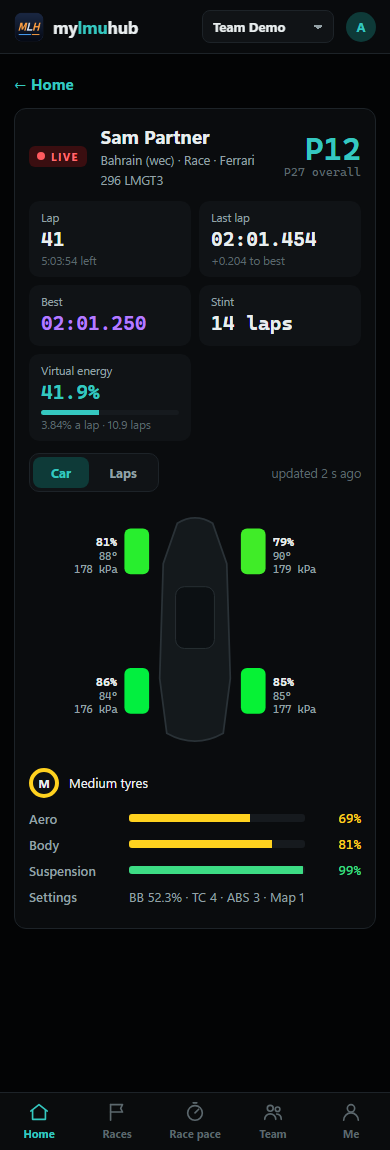
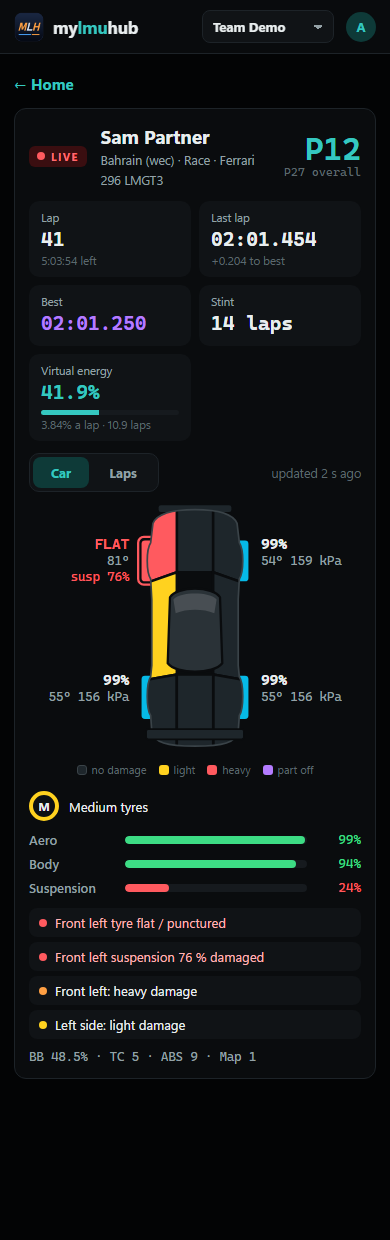
Live car damage in detail, guests can drive again, a full screen hotkey
- live-car.js (desktop Team tab + the website, one drawing): the GT car with every body part coloured by its damage,
  flat / missing tyres, suspension damage per wheel, and a list of what is wrong, worst first
- Guest mode: earlier guests have "Drive again" (their profile carries on); a typed name continues the same guest in any case
- Race Control hotkey: full screen on / off (key or wheel button, works while the game has focus)

diff --git a/server/MyLMUHub.Server/wwwroot/js/shared/live-car.js b/server/MyLMUHub.Server/wwwroot/js/shared/live-car.js
@@ -1,0 +1,91 @@
+// A team-mate's car, live (2026-11-16): the Team tab's live view (desktop) and the website's live page draw it with this one file (the server keeps a copy in
+// wwwroot/js/shared). Data = their app's CarView: wheels (wear, temperature, pressure, flat, detached), the 8 body dent zones, a detached part, aero / body /
+// suspension condition and the suspension damage per wheel (the game's repair screen), the engine state, the compound and the car's settings.
+// The car is the dashboard damage widget's GT car from above: every body part in the colour of its damage, the tyres coloured by temperature unless something
+// is wrong with that wheel (flat = red, missing = dashed outline, suspension damage = a ring); beside it the condition bars and a plain list of what is wrong.
+// No style="" anywhere (the website's Content-Security-Policy blocks them): colours are SVG attributes; widths and colours of bars are data-w / data-bg / data-col,
+// set by paint(root) through the DOM. Pure string building (tests/js/live-car.test.js).
+(function (root) {
+  'use strict';
+  var P = root.MyLMUHub = root.MyLMUHub || {}, F = P.format;
+  var C = { ok: '#1E262B', light: '#FFD21F', heavy: '#FF5A5F', off: '#B47CFF', edge: '#0A0C0E', line: '#3A4348', cabin: '#2A3237', green: '#3DDC84', none: '#5C686D', text: '#E9EEEF', dim: '#94A1A6' };
+  var WHEEL = ['Front left', 'Front right', 'Rear left', 'Rear right'];
+  // the game's 8 dent zones: 0 front, 1 front-left, 2 left, 3 rear-left, 4 rear, 5 rear-right, 6 right, 7 front-right
+  var ZONE = ['Front', 'Front left', 'Left side', 'Rear left', 'Rear', 'Rear right', 'Right side', 'Front right'];
+  var BODY = 'M50 5C70 5 83 8 87 17L89 34C93 40 93 60 89 66L88 84L88 142L89 152C93 158 93 180 89 186L88 200C86 210 75 213 50 213C25 213 14 210 12 200L11 186' +
+             'C7 180 7 158 11 152L12 142L12 84L11 66C7 60 7 40 11 34L13 17C17 8 30 5 50 5Z';
+  var PARTS = [[0, '34,0 66,0 66,60 34,60'], [1, '0,0 34,0 34,60 0,72'], [7, '66,0 100,0 100,72 66,60'], [2, '0,72 34,60 34,150 0,156'], [6, '66,60 100,72 100,156 66,150'],
+               [3, '0,156 34,150 34,220 0,220'], [5, '66,150 100,156 100,220 66,220'], [4, '34,150 66,150 66,220 34,220']];
+  var TYRES = [[3, 32, 13, 36], [84, 32, 13, 36], [3, 151, 13, 38], [84, 151, 13, 38]], uid = 0;
+
+  function esc(s) { return String(s === null || s === undefined ? '' : s).replace(/[&<>"']/g, function (c) { return { '&': '&amp;', '<': '&lt;', '>': '&gt;', '"': '&quot;', "'": '&#39;' }[c]; }); }
+  function dent(c, i) { var d = (c.dents || [])[i]; return i === 4 && c.detached && !(d >= 3) ? 3 : d > 0 ? d : 0; }
+  function dentColor(d) { return d >= 3 ? C.off : d >= 2 ? C.heavy : d >= 1 ? C.light : C.ok; }
+  function flat(w) { return !!(w && !w.detached && (w.flat || (w.pressure >= 0 && w.pressure <= 1))); }
+  function susp(c, i) { var s = (c.suspWheels || [])[i]; return s >= 0 ? s : 0; }
+
+  // what is wrong, worst first: [level 3 = bad / 2 = damaged / 1 = light, text]
+  function problems(c) {
+    var out = [], ws = c.wheels || [];
+    if (c.engine === 'off') out.push([3, 'Engine off']); else if (c.engine === 'overheat') out.push([3, 'Engine overheating']);
+    ws.forEach(function (w, i) {
+      if (w && w.detached) out.push([3, WHEEL[i] + ' wheel missing']);
+      else if (flat(w)) out.push([3, WHEEL[i] + ' tyre flat / punctured']);
+      var s = susp(c, i); if (s >= 0.02) out.push([s >= 0.25 ? 3 : 2, WHEEL[i] + ' suspension ' + Math.round(s * 100) + ' % damaged']);
+    });
+    for (var i = 0; i < 8; i++) { var d = dent(c, i); if (d >= 3) out.push([3, ZONE[i] + ': part came off']); else if (d >= 2) out.push([2, ZONE[i] + ': heavy damage']); else if (d >= 1) out.push([1, ZONE[i] + ': light damage']); }
+    if (c.aero >= 0 && c.aero < 0.9) out.push([c.aero < 0.6 ? 3 : 2, 'Aero ' + Math.round((1 - c.aero) * 100) + ' % damaged: slower in fast corners']);
+    return out.sort(function (a, b) { return b[0] - a[0]; });
+  }
+
+  function carSvg(c) {
+    var id = 'lcClip' + (++uid), ws = c.wheels || [], s = '<svg class="lc-svg" viewBox="-96 0 292 222"><defs><clipPath id="' + id + '"><path d="' + BODY + '"/></clipPath></defs>';
+    TYRES.forEach(function (t, i) {
+      var w = ws[i] || {}, sd = susp(c, i), hasT = w.temp !== null && w.temp !== undefined;
+      if (sd >= 0.02) s += '<rect x="' + (t[0] - 3) + '" y="' + (t[1] - 3) + '" width="' + (t[2] + 6) + '" height="' + (t[3] + 6) + '" rx="5" fill="none" stroke="' + (sd >= 0.25 ? C.heavy : C.light) + '" stroke-width="2"/>';
+      if (w.detached) s += '<rect x="' + t[0] + '" y="' + t[1] + '" width="' + t[2] + '" height="' + t[3] + '" rx="3" fill="none" stroke="' + C.heavy + '" stroke-width="1.5" stroke-dasharray="3 2"/>';
+      else s += '<rect x="' + t[0] + '" y="' + t[1] + '" width="' + t[2] + '" height="' + t[3] + '" rx="3" fill="' + (flat(w) ? C.heavy : hasT ? F.tyreTempColor(w.temp, C.line) : C.line) + '"/>';
+      // beside the wheel: wear, temperature, pressure, or what is wrong
+      var left = i % 2 === 0, x = left ? -8 : 108, a = left ? 'end' : 'start', y = t[1] + 8, lines = [];
+      if (w.detached) lines.push(['lc-t1 lc-bad', 'MISSING']);
+      else {
+        lines.push(['lc-t1' + (flat(w) ? ' lc-bad' : ''), flat(w) ? 'FLAT' : w.wear >= 0 ? Math.round(w.wear * 100) + '%' : '--']);
+        lines.push(['lc-t2', (hasT ? Math.round(w.temp) + '°' : '') + (w.pressure > 1 ? '  ' + Math.round(w.pressure) + ' kPa' : '')]);
+      }
+      if (sd >= 0.02) lines.push(['lc-t2 ' + (sd >= 0.25 ? 'lc-bad' : 'lc-warn'), 'susp ' + Math.round(sd * 100) + '%']);
+      lines.forEach(function (l, k) { s += '<text x="' + x + '" y="' + (y + k * 14) + '" text-anchor="' + a + '" class="' + l[0] + '">' + esc(l[1]) + '</text>'; });
+    });
+    s += '<rect x="18" y="1" width="64" height="6" rx="2" fill="' + dentColor(dent(c, 0)) + '"/>';                                    // front splitter
+    s += '<g clip-path="url(#' + id + ')">' + PARTS.map(function (p) { return '<polygon points="' + p[1] + '" fill="' + dentColor(dent(c, p[0])) + '" stroke="' + C.edge + '" stroke-width="2.2"/>'; }).join('') + '</g>';
+    s += '<path d="' + BODY + '" fill="none" stroke="' + C.line + '" stroke-width="1.5"/>';
+    s += '<path d="M28 82C34 72 66 72 72 82L74 140C66 150 34 150 26 140Z" fill="' + C.cabin + '" stroke="' + C.edge + '" stroke-width="2"/>';   // cabin
+    s += '<path d="M31 84C37 77 63 77 69 84L67 96C57 92 43 92 33 96Z" fill="rgba(255,255,255,0.14)"/>';
+    s += '<rect x="7" y="198" width="86" height="9" rx="2" fill="' + dentColor(dent(c, 4)) + '" stroke="' + C.edge + '" stroke-width="1.5"/>';  // rear wing
+    return s + '</svg>';
+  }
+
+  function bar(label, v) {
+    var col = F.condColor(v, { none: C.none, good: C.green, fair: C.light, bad: C.heavy });
+    return '<div class="lc-row"><b>' + label + '</b><div class="lc-bar"><i data-w="' + (v >= 0 ? Math.round(Math.max(0, Math.min(1, v)) * 100) : 0) + '" data-bg="' + col + '"></i></div><span data-col="' + col + '">' + (v >= 0 ? Math.round(v * 100) + '%' : '--') + '</span></div>';
+  }
+
+  // the whole panel: the car + the condition bars, the list of what is wrong, compound and settings
+  function html(c) {
+    c = c || {};
+    var cmp = F.compound(c.compound), list = problems(c);
+    var right = (c.compound ? '<div class="lc-cmp"><span class="lc-cmpb ' + (cmp || 'MED').toLowerCase() + '">' + (cmp ? cmp.charAt(0) : '?') + '</span><span>' + esc(c.compound) + ' tyres</span></div>' : '') +
+      bar('Aero', c.aero) + bar('Body', c.body) + bar('Suspension', c.susp) +
+      '<div class="lc-list">' + (list.length ? list.map(function (p) { return '<div class="lc-p lc-l' + p[0] + '"><i></i>' + esc(p[1]) + '</div>'; }).join('') : '<div class="lc-p lc-l0"><i></i>No damage</div>') + '</div>' +
+      '<div class="lc-set">' + esc([c.brakeBias > 0 ? 'BB ' + c.brakeBias.toFixed(1) + '%' : '', c.tc >= 0 ? 'TC ' + c.tc : '', c.abs >= 0 ? 'ABS ' + c.abs : '', c.map >= 0 ? 'Map ' + c.map : ''].filter(Boolean).join(' · ')) + '</div>';
+    var key = '<div class="lc-key"><span><i class="k-ok"></i>no damage</span><span><i class="k-light"></i>light</span><span><i class="k-heavy"></i>heavy</span><span><i class="k-off"></i>part off</span></div>';
+    return '<div class="lc"><div class="lc-car">' + carSvg(c) + key + '</div><div class="lc-info">' + right + '</div></div>';
+  }
+  // the bars' widths and colours (data-w / data-bg / data-col): set through the DOM
+  function paint(el) {
+    [].forEach.call(el.querySelectorAll('.lc [data-w]'), function (e) { e.style.width = e.getAttribute('data-w') + '%'; e.style.background = e.getAttribute('data-bg'); });
+    [].forEach.call(el.querySelectorAll('.lc [data-col]'), function (e) { e.style.color = e.getAttribute('data-col'); });
+  }
+
+  P.liveCar = { html: html, paint: paint, problems: problems };
+  if (typeof module !== 'undefined') module.exports = P.liveCar;
+})(typeof window !== 'undefined' ? window : globalThis);

diff --git a/src/MyLMUHub.App/wwwroot/js/live-car.js b/src/MyLMUHub.App/wwwroot/js/live-car.js
@@ -1,0 +1,91 @@
+// A team-mate's car, live (2026-11-16): the Team tab's live view (desktop) and the website's live page draw it with this one file (the server keeps a copy in
+// wwwroot/js/shared). Data = their app's CarView: wheels (wear, temperature, pressure, flat, detached), the 8 body dent zones, a detached part, aero / body /
+// suspension condition and the suspension damage per wheel (the game's repair screen), the engine state, the compound and the car's settings.
+// The car is the dashboard damage widget's GT car from above: every body part in the colour of its damage, the tyres coloured by temperature unless something
+// is wrong with that wheel (flat = red, missing = dashed outline, suspension damage = a ring); beside it the condition bars and a plain list of what is wrong.
+// No style="" anywhere (the website's Content-Security-Policy blocks them): colours are SVG attributes; widths and colours of bars are data-w / data-bg / data-col,
+// set by paint(root) through the DOM. Pure string building (tests/js/live-car.test.js).
+(function (root) {
+  'use strict';
+  var P = root.MyLMUHub = root.MyLMUHub || {}, F = P.format;
+  var C = { ok: '#1E262B', light: '#FFD21F', heavy: '#FF5A5F', off: '#B47CFF', edge: '#0A0C0E', line: '#3A4348', cabin: '#2A3237', green: '#3DDC84', none: '#5C686D', text: '#E9EEEF', dim: '#94A1A6' };
+  var WHEEL = ['Front left', 'Front right', 'Rear left', 'Rear right'];
+  // the game's 8 dent zones: 0 front, 1 front-left, 2 left, 3 rear-left, 4 rear, 5 rear-right, 6 right, 7 front-right
+  var ZONE = ['Front', 'Front left', 'Left side', 'Rear left', 'Rear', 'Rear right', 'Right side', 'Front right'];
+  var BODY = 'M50 5C70 5 83 8 87 17L89 34C93 40 93 60 89 66L88 84L88 142L89 152C93 158 93 180 89 186L88 200C86 210 75 213 50 213C25 213 14 210 12 200L11 186' +
+             'C7 180 7 158 11 152L12 142L12 84L11 66C7 60 7 40 11 34L13 17C17 8 30 5 50 5Z';
+  var PARTS = [[0, '34,0 66,0 66,60 34,60'], [1, '0,0 34,0 34,60 0,72'], [7, '66,0 100,0 100,72 66,60'], [2, '0,72 34,60 34,150 0,156'], [6, '66,60 100,72 100,156 66,150'],
+               [3, '0,156 34,150 34,220 0,220'], [5, '66,150 100,156 100,220 66,220'], [4, '34,150 66,150 66,220 34,220']];
+  var TYRES = [[3, 32, 13, 36], [84, 32, 13, 36], [3, 151, 13, 38], [84, 151, 13, 38]], uid = 0;
+
+  function esc(s) { return String(s === null || s === undefined ? '' : s).replace(/[&<>"']/g, function (c) { return { '&': '&amp;', '<': '&lt;', '>': '&gt;', '"': '&quot;', "'": '&#39;' }[c]; }); }
+  function dent(c, i) { var d = (c.dents || [])[i]; return i === 4 && c.detached && !(d >= 3) ? 3 : d > 0 ? d : 0; }
+  function dentColor(d) { return d >= 3 ? C.off : d >= 2 ? C.heavy : d >= 1 ? C.light : C.ok; }
+  function flat(w) { return !!(w && !w.detached && (w.flat || (w.pressure >= 0 && w.pressure <= 1))); }
+  function susp(c, i) { var s = (c.suspWheels || [])[i]; return s >= 0 ? s : 0; }
+
+  // what is wrong, worst first: [level 3 = bad / 2 = damaged / 1 = light, text]
+  function problems(c) {
+    var out = [], ws = c.wheels || [];
+    if (c.engine === 'off') out.push([3, 'Engine off']); else if (c.engine === 'overheat') out.push([3, 'Engine overheating']);
+    ws.forEach(function (w, i) {
+      if (w && w.detached) out.push([3, WHEEL[i] + ' wheel missing']);
+      else if (flat(w)) out.push([3, WHEEL[i] + ' tyre flat / punctured']);
+      var s = susp(c, i); if (s >= 0.02) out.push([s >= 0.25 ? 3 : 2, WHEEL[i] + ' suspension ' + Math.round(s * 100) + ' % damaged']);
+    });
+    for (var i = 0; i < 8; i++) { var d = dent(c, i); if (d >= 3) out.push([3, ZONE[i] + ': part came off']); else if (d >= 2) out.push([2, ZONE[i] + ': heavy damage']); else if (d >= 1) out.push([1, ZONE[i] + ': light damage']); }
+    if (c.aero >= 0 && c.aero < 0.9) out.push([c.aero < 0.6 ? 3 : 2, 'Aero ' + Math.round((1 - c.aero) * 100) + ' % damaged: slower in fast corners']);
+    return out.sort(function (a, b) { return b[0] - a[0]; });
+  }
+
+  function carSvg(c) {
+    var id = 'lcClip' + (++uid), ws = c.wheels || [], s = '<svg class="lc-svg" viewBox="-96 0 292 222"><defs><clipPath id="' + id + '"><path d="' + BODY + '"/></clipPath></defs>';
+    TYRES.forEach(function (t, i) {
+      var w = ws[i] || {}, sd = susp(c, i), hasT = w.temp !== null && w.temp !== undefined;
+      if (sd >= 0.02) s += '<rect x="' + (t[0] - 3) + '" y="' + (t[1] - 3) + '" width="' + (t[2] + 6) + '" height="' + (t[3] + 6) + '" rx="5" fill="none" stroke="' + (sd >= 0.25 ? C.heavy : C.light) + '" stroke-width="2"/>';
+      if (w.detached) s += '<rect x="' + t[0] + '" y="' + t[1] + '" width="' + t[2] + '" height="' + t[3] + '" rx="3" fill="none" stroke="' + C.heavy + '" stroke-width="1.5" stroke-dasharray="3 2"/>';
+      else s += '<rect x="' + t[0] + '" y="' + t[1] + '" width="' + t[2] + '" height="' + t[3] + '" rx="3" fill="' + (flat(w) ? C.heavy : hasT ? F.tyreTempColor(w.temp, C.line) : C.line) + '"/>';
+      // beside the wheel: wear, temperature, pressure, or what is wrong
+      var left = i % 2 === 0, x = left ? -8 : 108, a = left ? 'end' : 'start', y = t[1] + 8, lines = [];
+      if (w.detached) lines.push(['lc-t1 lc-bad', 'MISSING']);
+      else {
+        lines.push(['lc-t1' + (flat(w) ? ' lc-bad' : ''), flat(w) ? 'FLAT' : w.wear >= 0 ? Math.round(w.wear * 100) + '%' : '--']);
+        lines.push(['lc-t2', (hasT ? Math.round(w.temp) + '°' : '') + (w.pressure > 1 ? '  ' + Math.round(w.pressure) + ' kPa' : '')]);
+      }
+      if (sd >= 0.02) lines.push(['lc-t2 ' + (sd >= 0.25 ? 'lc-bad' : 'lc-warn'), 'susp ' + Math.round(sd * 100) + '%']);
+      lines.forEach(function (l, k) { s += '<text x="' + x + '" y="' + (y + k * 14) + '" text-anchor="' + a + '" class="' + l[0] + '">' + esc(l[1]) + '</text>'; });
+    });
+    s += '<rect x="18" y="1" width="64" height="6" rx="2" fill="' + dentColor(dent(c, 0)) + '"/>';                                    // front splitter
+    s += '<g clip-path="url(#' + id + ')">' + PARTS.map(function (p) { return '<polygon points="' + p[1] + '" fill="' + dentColor(dent(c, p[0])) + '" stroke="' + C.edge + '" stroke-width="2.2"/>'; }).join('') + '</g>';
+    s += '<path d="' + BODY + '" fill="none" stroke="' + C.line + '" stroke-width="1.5"/>';
+    s += '<path d="M28 82C34 72 66 72 72 82L74 140C66 150 34 150 26 140Z" fill="' + C.cabin + '" stroke="' + C.edge + '" stroke-width="2"/>';   // cabin
+    s += '<path d="M31 84C37 77 63 77 69 84L67 96C57 92 43 92 33 96Z" fill="rgba(255,255,255,0.14)"/>';
+    s += '<rect x="7" y="198" width="86" height="9" rx="2" fill="' + dentColor(dent(c, 4)) + '" stroke="' + C.edge + '" stroke-width="1.5"/>';  // rear wing
+    return s + '</svg>';
+  }
+
+  function bar(label, v) {
+    var col = F.condColor(v, { none: C.none, good: C.green, fair: C.light, bad: C.heavy });
+    return '<div class="lc-row"><b>' + label + '</b><div class="lc-bar"><i data-w="' + (v >= 0 ? Math.round(Math.max(0, Math.min(1, v)) * 100) : 0) + '" data-bg="' + col + '"></i></div><span data-col="' + col + '">' + (v >= 0 ? Math.round(v * 100) + '%' : '--') + '</span></div>';
+  }
+
+  // the whole panel: the car + the condition bars, the list of what is wrong, compound and settings
+  function html(c) {
+    c = c || {};
+    var cmp = F.compound(c.compound), list = problems(c);
+    var right = (c.compound ? '<div class="lc-cmp"><span class="lc-cmpb ' + (cmp || 'MED').toLowerCase() + '">' + (cmp ? cmp.charAt(0) : '?') + '</span><span>' + esc(c.compound) + ' tyres</span></div>' : '') +
+      bar('Aero', c.aero) + bar('Body', c.body) + bar('Suspension', c.susp) +
+      '<div class="lc-list">' + (list.length ? list.map(function (p) { return '<div class="lc-p lc-l' + p[0] + '"><i></i>' + esc(p[1]) + '</div>'; }).join('') : '<div class="lc-p lc-l0"><i></i>No damage</div>') + '</div>' +
+      '<div class="lc-set">' + esc([c.brakeBias > 0 ? 'BB ' + c.brakeBias.toFixed(1) + '%' : '', c.tc >= 0 ? 'TC ' + c.tc : '', c.abs >= 0 ? 'ABS ' + c.abs : '', c.map >= 0 ? 'Map ' + c.map : ''].filter(Boolean).join(' · ')) + '</div>';
+    var key = '<div class="lc-key"><span><i class="k-ok"></i>no damage</span><span><i class="k-light"></i>light</span><span><i class="k-heavy"></i>heavy</span><span><i class="k-off"></i>part off</span></div>';
+    return '<div class="lc"><div class="lc-car">' + carSvg(c) + key + '</div><div class="lc-info">' + right + '</div></div>';
+  }
+  // the bars' widths and colours (data-w / data-bg / data-col): set through the DOM
+  function paint(el) {
+    [].forEach.call(el.querySelectorAll('.lc [data-w]'), function (e) { e.style.width = e.getAttribute('data-w') + '%'; e.style.background = e.getAttribute('data-bg'); });
+    [].forEach.call(el.querySelectorAll('.lc [data-col]'), function (e) { e.style.color = e.getAttribute('data-col'); });
+  }
+
+  P.liveCar = { html: html, paint: paint, problems: problems };
+  if (typeof module !== 'undefined') module.exports = P.liveCar;
+})(typeof window !== 'undefined' ? window : globalThis);

diff --git a/server/MyLMUHub.Server/wwwroot/css/site.css b/server/MyLMUHub.Server/wwwroot/css/site.css
@@ -87,17 +87,30 @@ h1, h2, h3 { margin:0; }
 .lv-cell .v { font-family:var(--mono); font-size:20px; font-weight:700; margin-top:2px; white-space:nowrap; } .lv-cell .n { color:var(--faint); font-size:11.5px; margin-top:2px; }
 .lv-bar { height:5px; background:var(--tile2); border-radius:3px; margin-top:6px; overflow:hidden; } .lv-bar i { display:block; height:100%; }
 .lv-foot { display:flex; flex-wrap:wrap; align-items:center; justify-content:space-between; gap:10px; margin-top:12px; font-size:12.5px; } .lv-foot .seg button { flex:none; padding:7px 18px; }
-.lv-car { display:flex; flex-wrap:wrap; gap:10px 24px; align-items:center; justify-content:center; margin-top:10px; }
-.lv-svg { width:min(300px, 100%); height:auto; flex:none; }
-.lv-svg .t1 { fill:#E9EEEF; font:700 14px var(--mono); } .lv-svg .t2 { fill:#94A1A6; font:12px var(--mono); }
-.lv-dmg { flex:1; min-width:240px; max-width:460px; } .lv-dmg .row { display:flex; align-items:center; gap:10px; margin:9px 0; font-size:13px; } .lv-dmg .row b { width:90px; color:var(--muted); font-weight:600; flex:none; }
-.lv-dmg .row .lv-bar { flex:1; margin:0; height:8px; } .lv-dmg .row span { width:46px; text-align:right; font-family:var(--mono); } .lv-dmg .row em { font-style:normal; color:var(--muted); }
-.lv-dmg .cmp { display:flex; align-items:center; gap:10px; margin-bottom:12px; font-size:13px; }
-.cmpb { display:inline-grid; place-items:center; width:30px; height:30px; border-radius:50%; border:4px solid #888; font:800 12px var(--sans); color:var(--text); background:#0C1013; }
-.cmpb.soft { border-color:#FF5A5F; } .cmpb.med { border-color:#FFD21F; } .cmpb.hard { border-color:#E9EEEF; } .cmpb.wet { border-color:#3B9CFF; }
 
 /* my stats: the reference sheet's level (Alien, Competitive, ...) in its own colour */
 .cat { display:inline-block; color:#111; border-radius:999px; padding:2px 9px; font-size:11px; font-weight:800; text-transform:uppercase; letter-spacing:.04em; background:var(--tile2); }
+
+/* a team-mate's car, live (live-car.js) */
+.lc { display:flex; flex-wrap:wrap; gap:14px 28px; align-items:flex-start; justify-content:center; margin-top:12px; }
+.lc-car { flex:none; width:min(340px, 100%); } .lc-svg { width:100%; height:auto; display:block; }
+.lc-svg .lc-t1 { fill:#E9EEEF; font:700 13px var(--mono); } .lc-svg .lc-t2 { fill:#94A1A6; font:11px var(--mono); }
+.lc-svg .lc-bad { fill:#FF5A5F; } .lc-svg .lc-warn { fill:#FFD21F; }
+.lc-key { display:flex; flex-wrap:wrap; justify-content:center; gap:4px 12px; font-size:11px; color:var(--faint); margin-top:6px; }
+.lc-key i { display:inline-block; width:10px; height:10px; border-radius:3px; margin-right:5px; vertical-align:-1px; }
+.lc-key .k-ok { background:#1E262B; border:1px solid #3A4348; } .lc-key .k-light { background:#FFD21F; } .lc-key .k-heavy { background:#FF5A5F; } .lc-key .k-off { background:#B47CFF; }
+.lc-info { flex:1; min-width:250px; max-width:460px; }
+.lc-cmp { display:flex; align-items:center; gap:10px; margin-bottom:10px; font-size:13px; }
+.lc-cmpb { display:inline-grid; place-items:center; width:30px; height:30px; border-radius:50%; border:4px solid #888; font:800 12px var(--sans); color:var(--text); background:#0C1013; box-sizing:border-box; }
+.lc-cmpb.soft { border-color:#FF5A5F; } .lc-cmpb.med { border-color:#FFD21F; } .lc-cmpb.hard { border-color:#E9EEEF; } .lc-cmpb.wet { border-color:#3B9CFF; }
+.lc-row { display:flex; align-items:center; gap:10px; margin:7px 0; font-size:13px; } .lc-row b { width:86px; color:var(--muted); font-weight:600; flex:none; }
+.lc-bar { flex:1; height:8px; background:var(--tile2); border-radius:4px; overflow:hidden; } .lc-bar i { display:block; height:100%; border-radius:4px; }
+.lc-row span { width:44px; text-align:right; font-family:var(--mono); }
+.lc-list { margin-top:12px; display:flex; flex-direction:column; gap:5px; }
+.lc-p { display:flex; align-items:center; gap:8px; font-size:13px; background:var(--tile); border-radius:8px; padding:6px 10px; }
+.lc-p i { width:8px; height:8px; border-radius:50%; flex:none; }
+.lc-l0 i { background:#3DDC84; } .lc-l1 i { background:#FFD21F; } .lc-l2 i { background:#FF9F43; } .lc-l3 i { background:#FF5A5F; } .lc-l3 { color:#FFB3B5; }
+.lc-set { margin-top:10px; color:var(--muted); font-size:12.5px; font-family:var(--mono); }
 
 /* pages */
 .pagehead { display:flex; align-items:baseline; gap:12px; flex-wrap:wrap; margin-top:8px; }

diff --git a/src/MyLMUHub.App/wwwroot/js/team.js b/src/MyLMUHub.App/wwwroot/js/team.js
@@ -396,29 +396,11 @@
         '<div class="n">' + (ve.avg > 0 ? F.pct(ve.avg, 2) + ' a lap' : '') + (ve.laps > 0 ? ' · ' + ve.laps.toFixed(1) + ' laps' : '') + '</div></div>' +
       (fu.now > 0 ? cell('Fuel', fu.now.toFixed(1) + ' L', fu.avg > 0 ? fu.avg.toFixed(2) + ' L a lap' : '') : '');
     $('lvCarBtn').classList.toggle('on', lvCar); $('lvLapsBtn').classList.toggle('on', lvLapsOpen);
-    show('lvCar', lvCar); if (lvCar) $('lvCar').innerHTML = carHtml(c);
+    show('lvCar', lvCar); if (lvCar) { $('lvCar').innerHTML = carHtml(c); P.liveCar.paint($('lvCar')); }
     show('lvLapsBox', lvLapsOpen); if (lvLapsOpen) lapsHtml(x);
   }
-  // the car from above: four tyres coloured by temperature (the dashboard's ramp), wear and pressure on them; damage bars beside it
-  function carHtml(c) {
-    var w = c.wheels || [], pos = [[34, 56], [166, 56], [34, 214], [166, 214]], names = ['FL', 'FR', 'RL', 'RR'];
-    var tyres = pos.map(function (p, i) {
-      var x = w[i] || {}, col = x.temp !== null && x.temp !== undefined ? F.tyreTempColor(x.temp, '#3A4348') : '#3A4348';
-      var tx = i % 2 ? p[0] + 22 : p[0] - 22, anchor = i % 2 ? 'start' : 'end';
-      return '<rect x="' + (p[0] - 14) + '" y="' + (p[1] - 26) + '" width="28" height="52" rx="7" fill="' + col + '" opacity="' + (x.detached ? 0.25 : 0.95) + '"/>' +
-        '<text x="' + tx + '" y="' + (p[1] - 6) + '" text-anchor="' + anchor + '" class="t1">' + (x.wear >= 0 ? Math.round(x.wear * 100) + '%' : '--') + '</text>' +
-        '<text x="' + tx + '" y="' + (p[1] + 10) + '" text-anchor="' + anchor + '" class="t2">' + (x.temp !== null && x.temp !== undefined ? Math.round(x.temp) + '°' : '') + '</text>' +
-        '<text x="' + tx + '" y="' + (p[1] + 25) + '" text-anchor="' + anchor + '" class="t2">' + (x.pressure > 1 ? Math.round(x.pressure) + ' kPa' : '') + '</text>';
-    }).join('');
-    var body = '<path d="M80 24 Q100 12 120 24 L136 70 L140 200 L132 262 Q100 280 68 262 L60 200 L64 70 Z" fill="#14191C" stroke="#2A3237" stroke-width="2"/>' +
-      '<rect x="78" y="96" width="44" height="70" rx="10" fill="#0C1013" stroke="#2A3237"/>';
-    var svg = '<svg viewBox="-70 0 340 290"><style>.t1{fill:#E9EEEF;font:700 14px Cascadia Mono,Consolas,monospace}.t2{fill:#94A1A6;font:12px Cascadia Mono,Consolas,monospace}</style>' + body + tyres + '</svg>';
-    var icon = { s: 's', m: 'm', h: 'h', w: 'w' }[String(c.compound || '').charAt(0).toLowerCase()];
-    var row = function (k, v) { var col = F.condColor(v, { none: 'var(--faint)', good: 'var(--green)', fair: 'var(--yellow)', bad: 'var(--red)' }); return '<div class="row"><b>' + k + '</b>' + bar(v >= 0 ? v : 0, col) + '<span style="color:' + col + '">' + (v >= 0 ? Math.round(v * 100) + '%' : '--') + '</span></div>'; };
-    return '<div class="lv-car">' + svg + '<div class="lv-dmg">' + (c.compound ? '<div class="cmp">' + (icon ? '<img src="assets/icons/tyre_' + icon + '.png" alt="">' : '') + '<span>' + esc(c.compound) + ' tyres</span></div>' : '') +
-      row('Aero', c.aero) + row('Body', c.body) + row('Suspension', c.susp) +
-      '<div class="row"><b>Settings</b><span style="width:auto;text-align:left;color:var(--muted)">' + [c.brakeBias > 0 ? 'BB ' + c.brakeBias.toFixed(1) + '%' : '', c.tc >= 0 ? 'TC ' + c.tc : '', c.abs >= 0 ? 'ABS ' + c.abs : '', c.map >= 0 ? 'Map ' + c.map : ''].filter(Boolean).join(' · ') + '</span></div></div></div>';
-  }
+  // the car: live-car.js (the same drawing as the website's live page)
+  function carHtml(c) { return P.liveCar.html(c); }
   // this session's stints (a pit lap ends one) with their laps, the review's maths
   function lapsHtml(x) {
     var laps = (x.laps || []).map(function (l) { return [l[0], l[1] > 0 ? l[1] : null, l[2] ? 1 : 0, null, (x.car && x.car.driver) || x.name, l[3] > 0 ? l[3] : null, l[4] >= 0 ? l[4] : null, null, -1]; });

diff --git a/server/MyLMUHub.Server/wwwroot/js/app.js b/server/MyLMUHub.Server/wwwroot/js/app.js
@@ -361,31 +361,14 @@
     if (lives.length > 1) h += card('Also racing', '<div class="people">' + lives.filter(function (l) { return l !== x; }).map(function (l) {
       return '<a class="person" href="#/live/' + l.user + '"><i>' + initial(l.name) + '</i><span><b>' + esc(l.name) + '</b><small>' + esc(trackName(l.track)) + (l.top && l.top.classPos ? ' · P' + l.top.classPos : '') + '</small></span></a>';
     }).join('') + '</div>');
-    view.innerHTML = h; paint(view);
+    view.innerHTML = h; paint(view); P.liveCar.paint(view);
     view.onclick = function (e) {
       var b = e.target.closest('[data-lv]'); if (b) { lvTab = b.getAttribute('data-lv'); return liveView(); }
       var tr = e.target.closest('tr[data-lst]'); if (tr) { var i = +tr.getAttribute('data-lst'); lvOpenStint[i] = !lvOpenStint[i]; liveView(); }
     };
   }
-  // the car from above: four tyres coloured by temperature (the dashboard's ramp), wear, temperature and pressure beside them; damage bars
-  function carHtml(c) {
-    var w = c.wheels || [], pos = [[34, 56], [166, 56], [34, 214], [166, 214]];
-    var tyres = pos.map(function (p, i) {
-      var x = w[i] || {}, has = x.temp !== null && x.temp !== undefined, col = has ? F.tyreTempColor(x.temp, '#3A4348') : '#3A4348';
-      var tx = i % 2 ? p[0] + 22 : p[0] - 22, anchor = i % 2 ? 'start' : 'end';
-      return '<rect x="' + (p[0] - 14) + '" y="' + (p[1] - 26) + '" width="28" height="52" rx="7" fill="' + col + '" opacity="' + (x.detached ? 0.25 : 0.95) + '"/>' +
-        '<text x="' + tx + '" y="' + (p[1] - 6) + '" text-anchor="' + anchor + '" class="t1">' + (x.wear >= 0 ? Math.round(x.wear * 100) + '%' : '--') + '</text>' +
-        '<text x="' + tx + '" y="' + (p[1] + 10) + '" text-anchor="' + anchor + '" class="t2">' + (has ? Math.round(x.temp) + '°' : '') + '</text>' +
-        '<text x="' + tx + '" y="' + (p[1] + 25) + '" text-anchor="' + anchor + '" class="t2">' + (x.pressure > 1 ? Math.round(x.pressure) + ' kPa' : '') + '</text>';
-    }).join('');
-    var svg = '<svg class="lv-svg" viewBox="-70 0 340 290"><path d="M80 24 Q100 12 120 24 L136 70 L140 200 L132 262 Q100 280 68 262 L60 200 L64 70 Z" fill="#14191C" stroke="#2A3237" stroke-width="2"/>' +
-      '<rect x="78" y="96" width="44" height="70" rx="10" fill="#0C1013" stroke="#2A3237"/>' + tyres + '</svg>';
-    var cmp = F.compound(c.compound);
-    var row = function (k, v) { var col = F.condColor(v, { none: '#5C686D', good: '#3DDC84', fair: '#FFD21F', bad: '#FF5A5F' }); return '<div class="row"><b>' + k + '</b>' + bar(v >= 0 ? v : 0, col) + '<span data-col="' + col + '">' + (v >= 0 ? Math.round(v * 100) + '%' : '--') + '</span></div>'; };
-    return '<div class="lv-car">' + svg + '<div class="lv-dmg">' + (c.compound ? '<div class="cmp"><span class="cmpb ' + (cmp || 'MED').toLowerCase() + '">' + (cmp ? cmp.charAt(0) : '?') + '</span><span>' + esc(c.compound) + ' tyres</span></div>' : '') +
-      row('Aero', c.aero) + row('Body', c.body) + row('Suspension', c.susp) +
-      '<div class="row"><b>Settings</b><em>' + [c.brakeBias > 0 ? 'BB ' + c.brakeBias.toFixed(1) + '%' : '', c.tc >= 0 ? 'TC ' + c.tc : '', c.abs >= 0 ? 'ABS ' + c.abs : '', c.map >= 0 ? 'Map ' + c.map : ''].filter(Boolean).join(' · ') + '</em></div></div></div>';
-  }
+  // the car: live-car.js (shared with the desktop app's Team tab)
+  function carHtml(c) { return P.liveCar.html(c); }
   // this session's stints (a pit lap ends one) with their laps: the review's maths, like a team race
   function lapsHtml(x) {
     var laps = (x.laps || []).map(function (l) { return [l[0], l[1] > 0 ? l[1] : null, l[2] ? 1 : 0, null, (x.car && x.car.driver) || x.name, l[3] > 0 ? l[3] : null, l[4] >= 0 ? l[4] : null, null, -1]; });

diff --git a/src/MyLMUHub.App/wwwroot/team.html b/src/MyLMUHub.App/wwwroot/team.html
@@ -38,6 +38,25 @@
   .lv-cell { background:var(--tile); border-radius:10px; padding:9px 12px; } .lv-cell .k { color:var(--muted); font-size:11.5px; } .lv-cell .v { font-family:var(--mono); font-size:20px; font-weight:700; margin-top:2px; }
   .lv-cell .n { color:var(--faint); font-size:11.5px; margin-top:2px; } .lv-bar { height:5px; background:var(--tile2); border-radius:3px; margin-top:6px; overflow:hidden; } .lv-bar i { display:block; height:100%; }
   .lv-more { display:flex; gap:8px; margin-top:12px; } .lv-more .btn { padding:6px 14px; font-size:13px; } .lv-more .btn.on { border-color:var(--lime); color:var(--lime); }
+.lc { display:flex; flex-wrap:wrap; gap:14px 28px; align-items:flex-start; justify-content:center; margin-top:12px; }
+  .lc-car { flex:none; width:min(340px, 100%); } .lc-svg { width:100%; height:auto; display:block; }
+  .lc-svg .lc-t1 { fill:#E9EEEF; font:700 13px var(--mono); } .lc-svg .lc-t2 { fill:#94A1A6; font:11px var(--mono); }
+  .lc-svg .lc-bad { fill:#FF5A5F; } .lc-svg .lc-warn { fill:#FFD21F; }
+  .lc-key { display:flex; flex-wrap:wrap; justify-content:center; gap:4px 12px; font-size:11px; color:var(--faint); margin-top:6px; }
+  .lc-key i { display:inline-block; width:10px; height:10px; border-radius:3px; margin-right:5px; vertical-align:-1px; }
+  .lc-key .k-ok { background:#1E262B; border:1px solid #3A4348; } .lc-key .k-light { background:#FFD21F; } .lc-key .k-heavy { background:#FF5A5F; } .lc-key .k-off { background:#B47CFF; }
+  .lc-info { flex:1; min-width:250px; max-width:460px; }
+  .lc-cmp { display:flex; align-items:center; gap:10px; margin-bottom:10px; font-size:13px; }
+  .lc-cmpb { display:inline-grid; place-items:center; width:30px; height:30px; border-radius:50%; border:4px solid #888; font:800 12px var(--sans); color:var(--text); background:#0C1013; box-sizing:border-box; }
+  .lc-cmpb.soft { border-color:#FF5A5F; } .lc-cmpb.med { border-color:#FFD21F; } .lc-cmpb.hard { border-color:#E9EEEF; } .lc-cmpb.wet { border-color:#3B9CFF; }
+  .lc-row { display:flex; align-items:center; gap:10px; margin:7px 0; font-size:13px; } .lc-row b { width:86px; color:var(--muted); font-weight:600; flex:none; }
+  .lc-bar { flex:1; height:8px; background:var(--tile2); border-radius:4px; overflow:hidden; } .lc-bar i { display:block; height:100%; border-radius:4px; }
+  .lc-row span { width:44px; text-align:right; font-family:var(--mono); }
+  .lc-list { margin-top:12px; display:flex; flex-direction:column; gap:5px; }
+  .lc-p { display:flex; align-items:center; gap:8px; font-size:13px; background:var(--tile); border-radius:8px; padding:6px 10px; }
+  .lc-p i { width:8px; height:8px; border-radius:50%; flex:none; }
+  .lc-l0 i { background:#3DDC84; } .lc-l1 i { background:#FFD21F; } .lc-l2 i { background:#FF9F43; } .lc-l3 i { background:#FF5A5F; } .lc-l3 { color:#FFB3B5; }
+  .lc-set { margin-top:10px; color:var(--muted); font-size:12.5px; font-family:var(--mono); }
   .lv-car { display:flex; flex-wrap:wrap; gap:24px; align-items:center; margin-top:14px; }
   .lv-car svg { width:300px; height:290px; flex:none; }
   .lv-dmg { flex:1; min-width:240px; max-width:460px; } .lv-dmg .row { display:flex; align-items:center; gap:10px; margin:8px 0; font-size:13px; } .lv-dmg .row b { width:90px; color:var(--muted); font-weight:600; }
@@ -181,6 +200,7 @@
 <script src="js/strategy-math.js"></script>
 <script src="js/review-math.js"></script>
 <script src="js/hub.js"></script>
+<script src="js/live-car.js"></script>
 <script src="js/team.js"></script>
 </body>
 </html>

diff --git a/src/MyLMUHub.App/wwwroot/js/hub.js b/src/MyLMUHub.App/wwwroot/js/hub.js
@@ -86,9 +86,10 @@
           (here ? '<div class="bar" style="gap:8px"><input class="input" id="gName" placeholder="His name" maxlength="40" style="min-width:0;flex:1"><button class="btn lime" id="gStart">Start</button></div>' : '<div class="faint">Switch it on the PC the app runs on.</div>');
       }
       var old = (g.guests || []).filter(function (x) { return x.name !== g.current; });
+      // an earlier guest keeps his profile (his result files, segments, best laps): "Drive again" switches guest mode on for him, his data carries on
       if (old.length) h += '<div class="pop-h" style="margin-top:16px">Earlier guests (hidden from you)</div><div class="pop-list">' + old.map(function (x) {
         return '<div class="pop-row" style="cursor:default"><span>' + esc(x.name) + '</span><small>' + esc(F.day(x.from)) + ' · ' + x.files + ' result files</small>' +
-          (here ? '<button class="btn" data-del="' + esc(x.name) + '" style="padding:4px 10px">Delete</button>' : '') + '</div>';
+          (here ? '<button class="btn lime" data-again="' + esc(x.name) + '" style="padding:4px 10px">Drive again</button><button class="btn" data-del="' + esc(x.name) + '" style="padding:4px 10px">Delete</button>' : '') + '</div>';
       }).join('') + '</div>';
       p.innerHTML = h;
       function del(name) { return confirm('Delete everything of ' + name + '?\n\nHis result files (from his time at the wheel) go to the Recycle Bin, his segments are removed. Your own data stays.') ? act('do=delete&name=' + encodeURIComponent(name)) : Promise.reject(); }
@@ -96,6 +97,7 @@
       if (s) s.onclick = function () { var n = document.getElementById('gName').value.trim(); if (n) act('do=start&name=' + encodeURIComponent(n)).then(done, function () {}); };
       if (st) st.onclick = function () { act('do=stop').then(done, function () {}); };
       if (d) d.onclick = function () { var n = g.current; del(n).then(done, function () {}); };
+      [].forEach.call(p.querySelectorAll('[data-again]'), function (b) { b.onclick = function () { act('do=start&name=' + encodeURIComponent(b.getAttribute('data-again'))).then(done, function () {}); }; });
       [].forEach.call(p.querySelectorAll('[data-del]'), function (b) { b.onclick = function () { del(b.getAttribute('data-del')).then(done, function () {}); }; });
     }, function () { p.innerHTML = '<div class="muted">Could not load guest mode.</div>'; });
   }

diff --git a/src/MyLMUHub.App/wwwroot/js/rc.js b/src/MyLMUHub.App/wwwroot/js/rc.js
@@ -132,7 +132,7 @@
   function renderKeys() {
     if (!ws) return;
     var k = ws.file.keys, act = k.act || {}, rows = [['>', 'Next view (goes round)', k.next]].concat(ws.names().map(function (n) { return [n, n, k.views[n] || '']; }))
-      .concat([['!lapsUp', 'Fuel widget: stint laps + 1', act.lapsUp || ''], ['!lapsDown', 'Fuel widget: stint laps − 1', act.lapsDown || '']]);
+      .concat([['!lapsUp', 'Fuel widget: stint laps + 1', act.lapsUp || ''], ['!lapsDown', 'Fuel widget: stint laps − 1', act.lapsDown || ''], ['!full', 'Race Control full screen on / off', act.full || '']]);
     $('keyList').innerHTML = '<table class="tbl"><tbody>' + rows.map(function (r, i) {
       var bad = r[2] && refused.indexOf(r[2]) >= 0;                                                     // Windows refused it: another program uses it
       return '<tr><td>' + esc(r[1]) + '</td><td class="num mono"' + (bad ? ' style="color:var(--red)" title="This key cannot be used as a hotkey. Pick another one."' : '') + '>' +

diff --git a/src/MyLMUHub.App/wwwroot/js/app.js b/src/MyLMUHub.App/wwwroot/js/app.js
@@ -211,6 +211,11 @@
     var webview = root.chrome && root.chrome.webview;
     function switchTo(target) {
       if (!target) return;
+      if (target === '!full') {                                                                        // full screen on / off: the app's window (F11), else the browser's
+        if (webview && webview.postMessage) { try { webview.postMessage({ fullscreen: 'toggle' }); } catch (e) {} }
+        else if (doc.fullscreenElement) doc.exitFullscreen().catch(function () {}); else if (doc.documentElement.requestFullscreen) doc.documentElement.requestFullscreen().catch(function () {});
+        return;
+      }
       if (target.charAt(0) === '!') { if (P.stintLapsKey) P.stintLapsKey(target === '!lapsUp' ? 1 : target === '!lapsDown' ? -1 : 0); return; }   // fuel widget: stint laps + / -
       var name = target === '>' ? ws.nextName() : target;
       if (name === ws.file.current) return;

diff --git a/server/MyLMUHub.Server/wwwroot/app/index.html b/server/MyLMUHub.Server/wwwroot/app/index.html
@@ -29,6 +29,7 @@
 <script src="/js/shared/pace-ref.js"></script>
 <script src="/js/shared/strategy-math.js"></script>
 <script src="/js/shared/review-math.js"></script>
+<script src="/js/shared/live-car.js"></script>
 <script src="/js/app.js"></script>
 </body>
 </html>

diff --git a/src/MyLMUHub.App/MainWindow.cs b/src/MyLMUHub.App/MainWindow.cs
@@ -156,6 +156,7 @@ public sealed class MainWindow : Window
             var r = doc.RootElement;
             if (r.ValueKind == System.Text.Json.JsonValueKind.Object && r.TryGetProperty("hotkeys", out var hk) && hk.ValueKind == System.Text.Json.JsonValueKind.Array)
             { SetHotkeys(hk.EnumerateArray().Select(x => x.GetString()).Where(x => !string.IsNullOrEmpty(x)).ToList()); return; }
+            if (r.ValueKind == System.Text.Json.JsonValueKind.Object && r.TryGetProperty("fullscreen", out _)) { SetFull(!full); return; }   // the full screen hotkey (Race Control)
             if (r.ValueKind == System.Text.Json.JsonValueKind.Object && r.TryGetProperty("padLearn", out var pl)) { Learn(pl.ValueKind == System.Text.Json.JsonValueKind.True); return; }
             if (r.ValueKind != System.Text.Json.JsonValueKind.Object || !r.TryGetProperty("titleBar", out var bg)) return;
             int? c = Colour(bg.GetString()), tx = r.TryGetProperty("titleText", out var t) ? Colour(t.GetString()) : null;

diff --git a/src/MyLMUHub.App/Guests.cs b/src/MyLMUHub.App/Guests.cs
@@ -35,6 +35,8 @@ public sealed class Guests
         lock (gate)
         {
             foreach (var g in settings.Guests.Where(On)) g.To = Now;
+            // an earlier guest of that name (any case): his profile again, under the name it already has
+            name = settings.Guests.FirstOrDefault(g => string.Equals(g.Name, name, StringComparison.OrdinalIgnoreCase))?.Name ?? name;
             settings.Guests.Add(new GuestPeriod { Name = name, From = Now });
             SettingsStore.Save(settings);
         }
